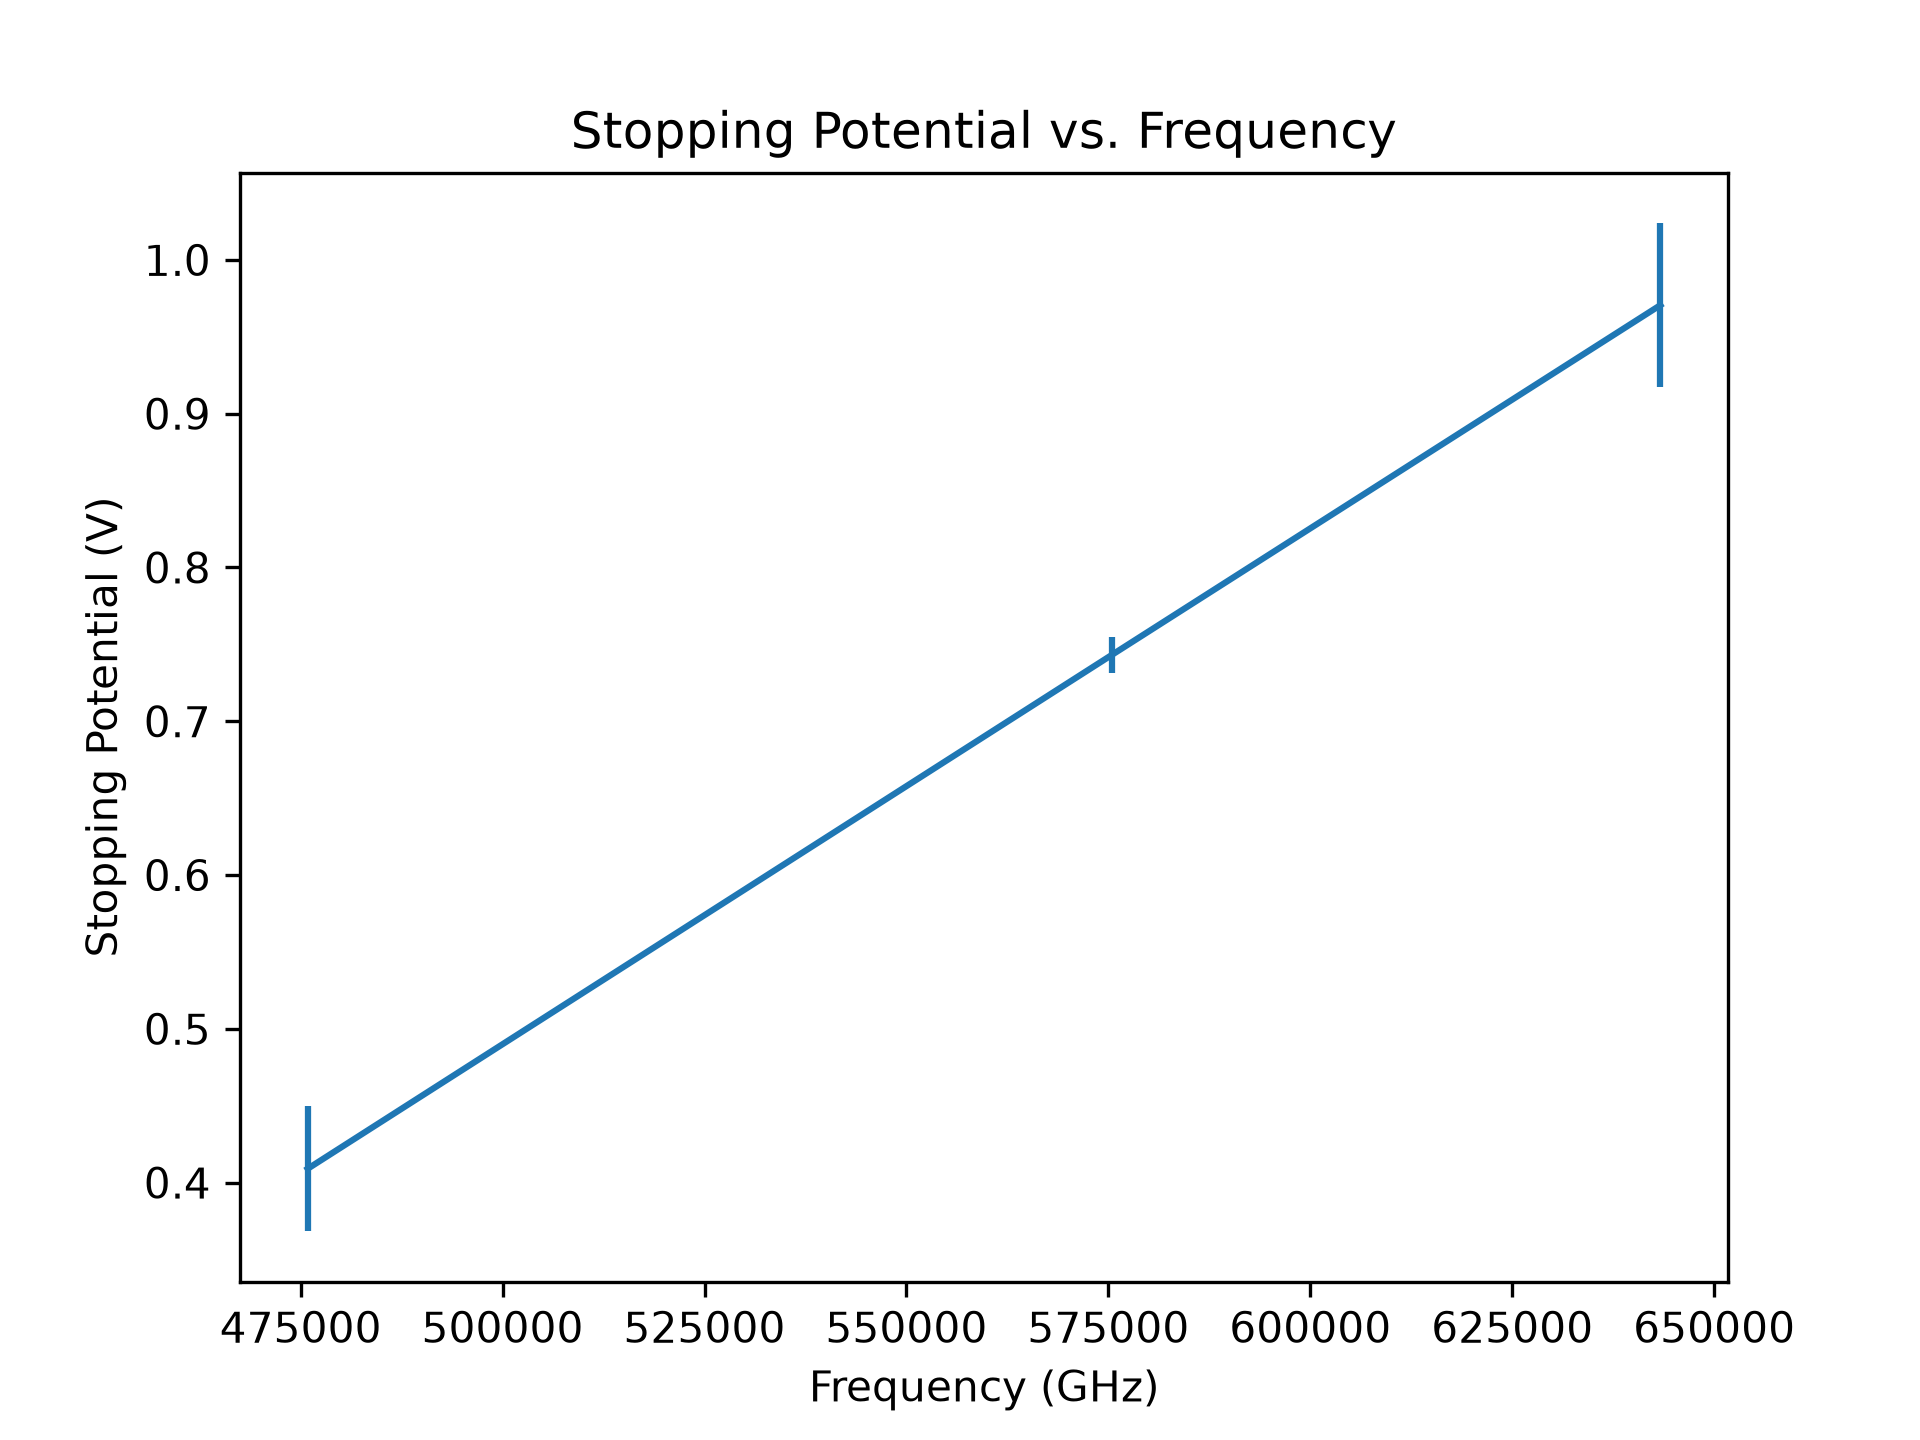
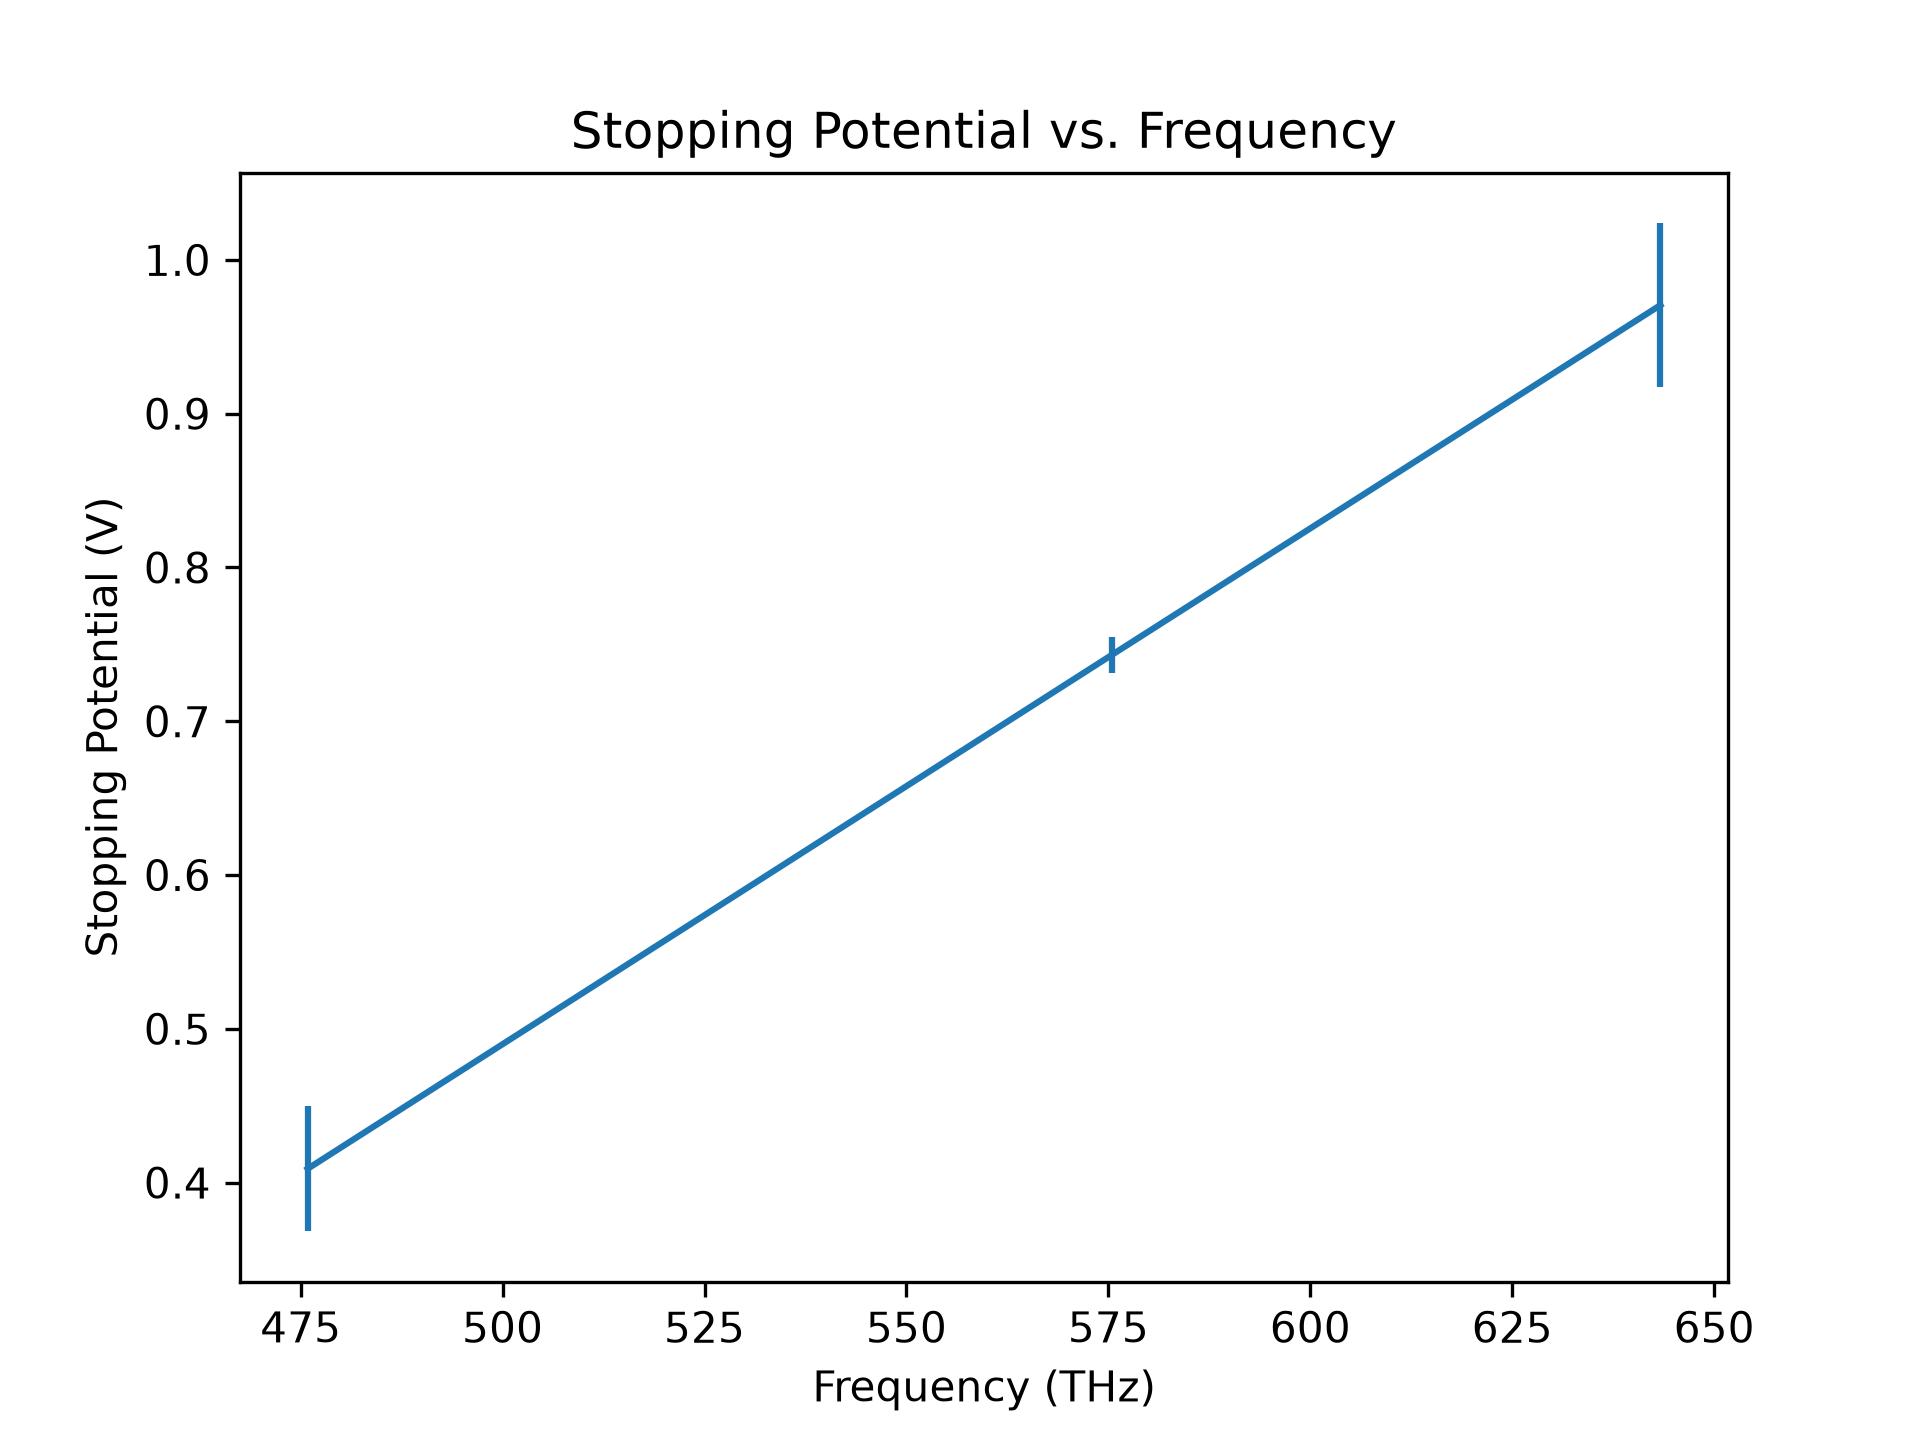
units

Changed region(s): [[0.4062, 0.9062, 0.9375, 1.0], [0.0938, 0.9062, 0.4062, 0.9375]]

diff --git a/v0graph.py b/v0graph.py
@@ -116,11 +116,11 @@ v0_b,dv0_b = V0(ba,bb,bc,bd,bda,bdb,bdc,bdd)
 v0 = [v0_r,v0_g,v0_b] # volts
 dv0 = [dv0_r,dv0_g,dv0_b]
 wl = np.array([630,521,466]) # nanometers
-nu = 299792458 / wl # gigahertz
+nu = 299792.458 / wl # terahertz
 
 plt.figure(dpi=300)
 plt.errorbar(nu,v0,yerr=dv0)
-plt.xlabel("Frequency (GHz)")
+plt.xlabel("Frequency (THz)")
 plt.ylabel("Stopping Potential (V)")
 plt.title("Stopping Potential vs. Frequency")
 plt.savefig('v0graph.png')
